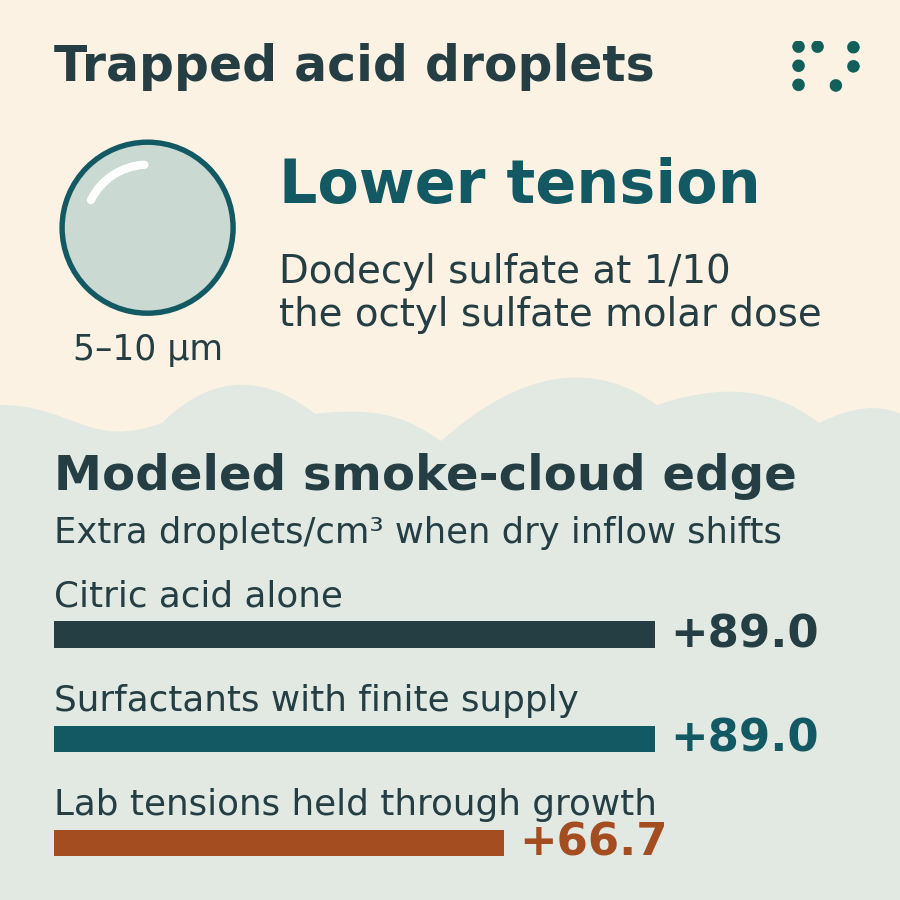
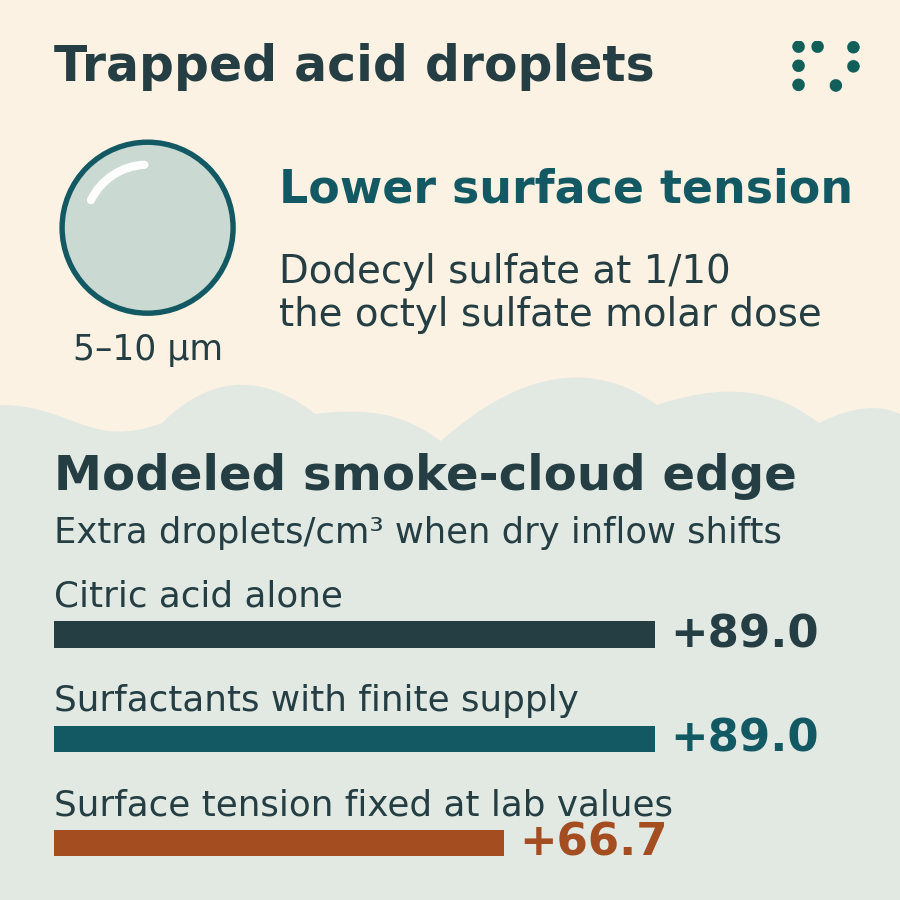
Name droplet surface tension explicitly in the graphical abstract

Changed region(s): [[0.3111, 0.1556, 0.9644, 0.2489], [0.0622, 0.8711, 0.7467, 0.9333]]

diff --git a/studies/cloud-edge-surfactants/figures/toc.py b/studies/cloud-edge-surfactants/figures/toc.py
@@ -40,7 +40,12 @@ def render():
         )
         ax.text(0.164, 0.60, "5–10 µm", ha="center", size=8.3)
         ax.text(
-            0.31, 0.775, "Lower tension", size=14.5, weight="bold", color=TEAL
+            0.31,
+            0.775,
+            "Lower surface tension",
+            size=11.0,
+            weight="bold",
+            color=TEAL,
         )
         ax.text(
             0.31,
@@ -93,7 +98,7 @@ def render():
         for y, control, label, color in (
             (0.303, "acid", "Citric acid alone", INK),
             (0.187, "finite", "Surfactants with finite supply", TEAL),
-            (0.071, "fixed70", "Lab tensions held through growth", RUST),
+            (0.071, "fixed70", "Surface tension fixed at lab values", RUST),
         ):
             gain = gains[control]
             ax.text(0.06, y + 0.023, label, size=8.6)

diff --git a/docs/studies/literature/cloud-edge-surfactants/index.md b/docs/studies/literature/cloud-edge-surfactants/index.md
@@ -1,8 +1,8 @@
 # Two surfactants lower surface tension yet scarcely change droplet counts at a simulated smoke-cloud edge
 
-![Dodecyl sulfate lowered tension more than octyl sulfate at one tenth the molar dose in trapped droplets. Shifting dry inflow in the simulated smoke cloud added 89.0 droplets/cm³ for both matched acid and finite surfactant supply, and 66.7/cm³ with tensions held fixed.](../../../images/cloud-edge-surfactants/toc.png)
+![At one tenth the molar dose, dodecyl sulfate lowered the air–water surface tension of trapped citric-acid droplets more than octyl sulfate did. Shifting dry inflow in the simulated smoke cloud added 89.0 droplets/cm³ for both matched acid and finite surfactant supply, and 66.7/cm³ with surface tension fixed at the measured laboratory values.](../../../images/cloud-edge-surfactants/toc.png)
 
-A tenfold smaller molar dose of sodium dodecyl sulfate lowered the surface tension of a micrometre citric-acid droplet more than sodium octyl sulfate did. Would the stronger surfactant also produce more cloud droplets? We followed both recipes into simulated rising air, where condensing water diluted their contents and neighboring particles competed for the same vapor. In weak marine ascent, 89 droplets/cm³ formed on the added seeds. The seeds raised total droplet number by 80/cm³, and the surfactants accounted for an estimated 0.20/cm³ relative to the same number of pure citric-acid seeds. At a simulated smoke-cloud edge, shifting the position of a dry-air intrusion increased droplet number by **89.0/cm³** with either the surfactant recipes or matched acid. Carrying the concentrated laboratory tensions unchanged through growth gave **66.7/cm³**. The treatment of dilution changed the predicted response to dry air and the identities of the seeds that activated. [Shahabadi et al., original measurements](https://doi.org/10.5194/acp-25-14301-2025)
+A tenfold smaller molar dose of sodium dodecyl sulfate lowered the surface tension of a micrometre citric-acid droplet more than sodium octyl sulfate did. Would the stronger surfactant also produce more cloud droplets? We followed both recipes into simulated rising air, where condensing water diluted their contents and neighboring particles competed for the same vapor. In weak marine ascent, 89 droplets/cm³ formed on the added seeds. The seeds raised total droplet number by 80/cm³, and the surfactants accounted for an estimated 0.20/cm³ relative to the same number of pure citric-acid seeds. At a simulated smoke-cloud edge, shifting the position of a dry-air intrusion increased droplet number by **89.0/cm³** with either the surfactant recipes or matched acid. Holding surface tension at the values measured in concentrated droplets throughout growth gave **66.7/cm³**. The treatment of dilution changed the predicted response to dry air and the identities of the seeds that activated. [Shahabadi et al., original measurements](https://doi.org/10.5194/acp-25-14301-2025)
 
 *The bars show the change in droplet number 100 m above cloud base when the dry inflow moves. The two seed recipes compete in the same parcel. Each response is the difference between inlet-flux-weighted means for the two placements.*
 

diff --git a/docs/studies/literature/index.md b/docs/studies/literature/index.md
@@ -51,7 +51,7 @@ Modeled convection supplies only a third of the heat needed for the reported pen
 
 <div class="study-figures">
 
-[![Dodecyl sulfate lowered tension more than octyl sulfate at one tenth the molar dose in trapped droplets. Shifting dry inflow in the simulated smoke cloud added 89.0 droplets/cm³ for both matched acid and finite surfactant supply, and 66.7/cm³ with tensions held fixed.](../../images/cloud-edge-surfactants/toc.png)\
+[![At one tenth the molar dose, dodecyl sulfate lowered the air–water surface tension of trapped citric-acid droplets more than octyl sulfate did. Shifting dry inflow in the simulated smoke cloud added 89.0 droplets/cm³ for both matched acid and finite surfactant supply, and 66.7/cm³ with surface tension fixed at the measured laboratory values.](../../images/cloud-edge-surfactants/toc.png)\
 Two surfactants lower surface tension yet scarcely change droplet counts at a simulated smoke-cloud edge](cloud-edge-surfactants/index.md)
 
 [![Pallas fits place 9.8% salt at 50 nm and 49.6% at 120 nm.](../../images/pallas-activation/salt-toc.png)\
